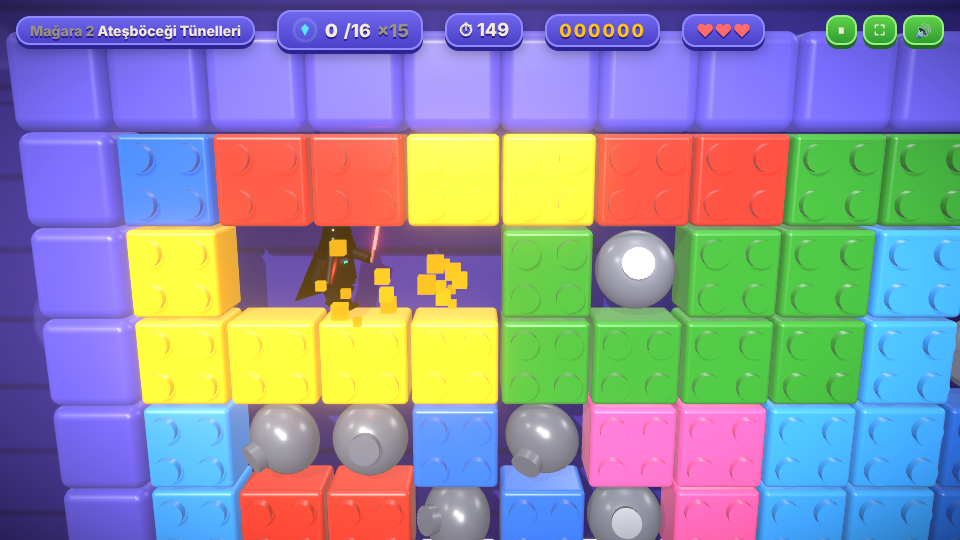
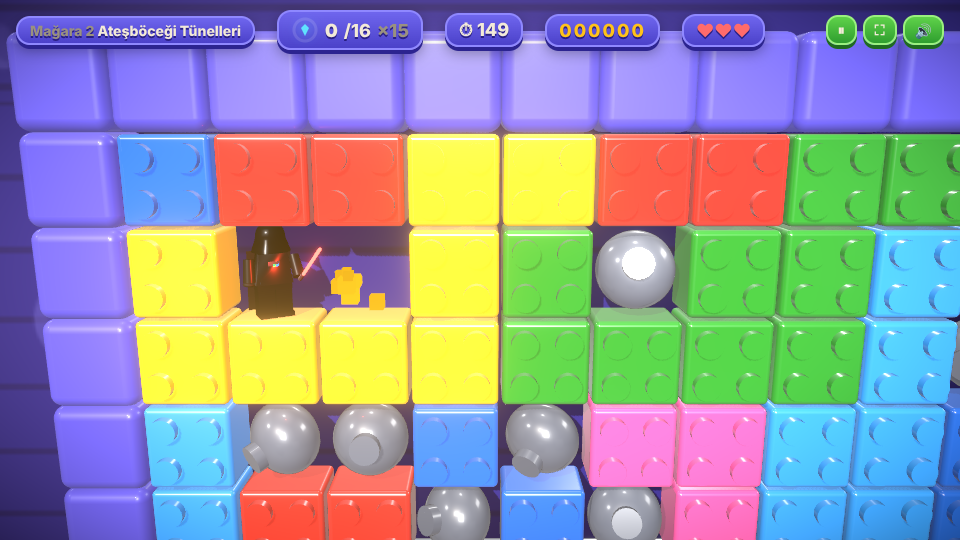
Version 3: holed beam walls and glossier plastic
- Fixed walls become one-piece studless beams with rounded ends and a
  hole per cell, in classic beam colours, so they read differently from
  diggable bricks
- Plastic material: lower roughness, full clearcoat, stronger
  reflections; less ambient fill so colours stay saturated

Claude-Session: https://claude.ai/code/session_019E9VYbsxtC3t3pdbgofmLP

diff --git a/src/v3/bricks.ts b/src/v3/bricks.ts
@@ -172,27 +172,37 @@ function paint(g: THREE.BufferGeometry, c: THREE.Color) {
 }
 
 /**
- * Tüm duvar çubuklarını tek geometride birleştirir (köşeleri esnemeyen gerçek
- * uzun tuğlalar, her hücrede 2x2 düğme). Renk köşe renkleriyle verilir.
- * `toWorld` hücre koordinatını sahne koordinatına çevirir.
+ * Delikli kiriş: düğmesiz, uçları yuvarlak tek parça uzun parça; her hücrede
+ * bir yuvarlak delik. Tüm duvar dizileri tek geometride birleştirilir.
  */
-export function barGeometry(runs: BarRun[], toWorld: (x: number, y: number) => [number, number], colorOf: (r: BarRun) => THREE.Color, depth = 0.7) {
+export function beamGeometry(runs: BarRun[], toWorld: (x: number, y: number) => [number, number], colorOf: (r: BarRun) => THREE.Color, depth = 0.55) {
   const parts: THREE.BufferGeometry[] = []
+  const r0 = 0.45 // uç yarıçapı
   for (const r of runs) {
-    const c = colorOf(r)
+    const len = r.len - 0.06
+    const half = len / 2 - r0
+    const s = new THREE.Shape()
+    s.moveTo(-half, -r0)
+    s.lineTo(half, -r0)
+    s.absarc(half, 0, r0, -Math.PI / 2, Math.PI / 2, false)
+    s.lineTo(-half, r0)
+    s.absarc(-half, 0, r0, Math.PI / 2, (3 * Math.PI) / 2, false)
+    for (let k = 0; k < r.len; k++) {
+      const hole = new THREE.Path()
+      hole.absarc(-(r.len - 1) / 2 + k, 0, 0.19, 0, Math.PI * 2, true)
+      s.holes.push(hole)
+    }
+    const g = new THREE.ExtrudeGeometry(s, { depth, curveSegments: 20, bevelEnabled: true, bevelSize: 0.05, bevelThickness: 0.05, bevelSegments: 3 })
+    g.translate(0, 0, -depth / 2)
+    if (r.vertical) g.rotateZ(Math.PI / 2)
     const [x0, y0] = toWorld(r.x, r.y)
     const [x1, y1] = toWorld(r.vertical ? r.x : r.x + r.len - 1, r.vertical ? r.y + r.len - 1 : r.y)
-    const bw = r.vertical ? 0.96 : r.len - 0.04
-    const bh = r.vertical ? r.len - 0.04 : 0.96
-    parts.push(paint(nonIndexed(new RoundedBoxGeometry(bw, bh, depth, 3, 0.07)).translate((x0 + x1) / 2, (y0 + y1) / 2, 0), c))
-    for (let k = 0; k < r.len; k++) {
-      const [cx, cy] = toWorld(r.vertical ? r.x : r.x + k, r.vertical ? r.y + k : r.y)
-      for (const [sx, sy] of [[-0.24, -0.24], [0.24, -0.24], [-0.24, 0.24], [0.24, 0.24]]) {
-        const s = new THREE.CylinderGeometry(0.15, 0.15, 0.1, 16, 1).rotateX(Math.PI / 2).translate(cx + sx, cy + sy, depth / 2 + 0.05)
-        parts.push(paint(nonIndexed(s), c))
-      }
-    }
+    g.translate((x0 + x1) / 2, (y0 + y1) / 2, 0)
+    parts.push(paint(nonIndexed(g), colorOf(r)))
   }
   if (!parts.length) return new THREE.BufferGeometry()
   return mergeGeometries(parts)!
 }
+
+/** Kirişlerin klasik renkleri: açık gri, koyu gri, kırmızı, sarı, mavi. */
+export const BEAM_COLORS = ['#a7adb4', '#5b616b', PALETTE.red, PALETTE.yellow, PALETTE.blue]

diff --git a/src/v3/SceneV3.tsx b/src/v3/SceneV3.tsx
@@ -12,7 +12,7 @@ import { clearInput, takeInput } from '../input.ts'
 import { sfx } from '../sfx.ts'
 import { Particles } from '../Particles.ts'
 import { DarkLord, type LordState } from './DarkLord.tsx'
-import { DIRT_COLORS, PALETTE, arrowGeometry, barGeometry, dirtColorIndex, findBarRuns, jewel, moonTexture, roundBrick, studBrick, tile } from './bricks.ts'
+import { BEAM_COLORS, DIRT_COLORS, PALETTE, arrowGeometry, beamGeometry, dirtColorIndex, findBarRuns, jewel, moonTexture, roundBrick, studBrick, tile } from './bricks.ts'
 
 const TICK = 1 / TICKS_PER_SECOND
 const N = W * H
@@ -20,6 +20,7 @@ const wx = (x: number) => x - (W - 1) / 2
 const wy = (y: number) => (H - 1) / 2 - y
 const NONE: Input = { dir: -1, snap: false }
 const DIRT_RGB = DIRT_COLORS.map((c) => new THREE.Color(c))
+const BEAM_RGB = BEAM_COLORS.map((c) => new THREE.Color(c))
 const rgb = (c: THREE.Color): [number, number, number] => [c.r, c.g, c.b]
 
 function newGame(level: number): Game {
@@ -77,7 +78,17 @@ export function SceneV3() {
     [],
   )
   const plastic = (extra: THREE.MeshPhysicalMaterialParameters = {}) =>
-    new THREE.MeshPhysicalMaterial({ roughness: 0.3, clearcoat: 0.7, clearcoatRoughness: 0.2, envMap: env, envMapIntensity: 0.55, ...extra })
+    // Cilalı ABS plastik: düşük pürüz, tam cila katmanı, belirgin yansıma
+    new THREE.MeshPhysicalMaterial({
+      roughness: 0.2,
+      clearcoat: 1,
+      clearcoatRoughness: 0.06,
+      ior: 1.53,
+      specularIntensity: 1,
+      envMap: env,
+      envMapIntensity: 0.7,
+      ...extra,
+    })
   const mat = useMemo(
     () => ({
       brick: plastic(),
@@ -425,10 +436,10 @@ export function SceneV3() {
       s.wallGame = g
       const runs = findBarRuns((x, y) => g.cells[y * W + x].t === T.WALL, W, H)
       const old = wallRef.current.geometry
-      wallRef.current.geometry = barGeometry(
+      wallRef.current.geometry = beamGeometry(
         runs,
         (x, y) => [wx(x), wy(y)],
-        (r) => DIRT_RGB[Math.floor(hash(r.x * 57 + r.y * 13 + r.len) * DIRT_RGB.length)],
+        (r) => BEAM_RGB[Math.floor(hash(r.x * 57 + r.y * 13 + r.len) * BEAM_RGB.length)],
       )
       old.dispose()
     }
@@ -505,11 +516,11 @@ export function SceneV3() {
   return (
     <>
       <color attach="background" args={['#24206a']} />
-      <ambientLight intensity={0.55} color="#c9c4ff" />
-      <hemisphereLight args={['#ffffff', '#4a3fb0', 0.9]} />
+      <ambientLight intensity={0.3} color="#c9c4ff" />
+      <hemisphereLight args={['#ffffff', '#4a3fb0', 0.6]} />
       <directionalLight
         ref={light}
-        intensity={2.3}
+        intensity={2.8}
         color="#fff6ea"
         castShadow
         shadow-mapSize={[2048, 2048]}

diff --git a/README.md b/README.md
@@ -21,6 +21,7 @@ Ana menüden üç görünüm arasında seçim yapılır; seçim tarayıcıda hat
 
 - **Sürüm 3 · Oyuncak tuğla** (`src/v3/`): aydınlık mor sahne ve canlı renkli, düğmeli plastik tuğlalar. Ayrıca:
   - kayalar düğmeli gri toplar, elmaslar kristal mücevherler, çerçeve mor karolar;
+  - sabit duvarlar uçları yuvarlak, delikli tek parça kirişler;
   - açılan çıkış beyaz oklu kırmızı bir karo;
   - kazılan tuğla kendi renginde parçalara, patlamalar rengarenk tuğla parçalarına ayrılır;
   - karakter, kara kasklı, pelerinli ve kırmızı enerji kılıçlı oyuncak figür **Kara Lord**.
